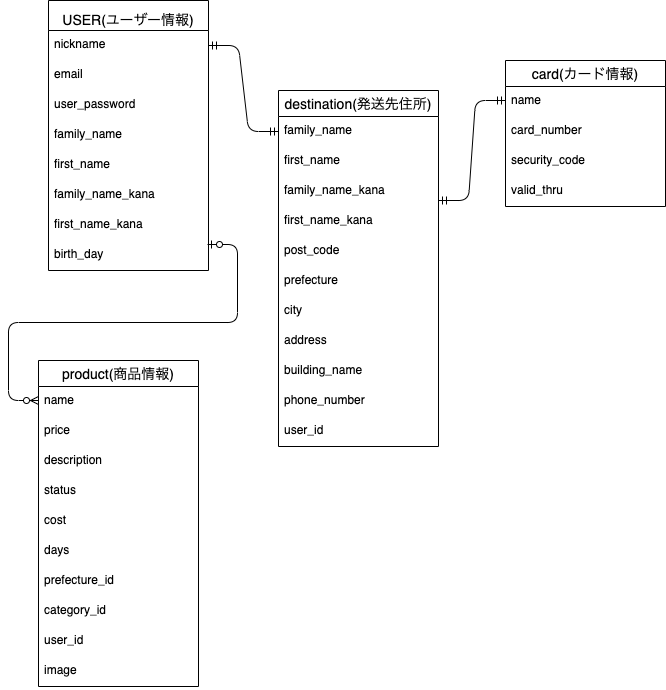
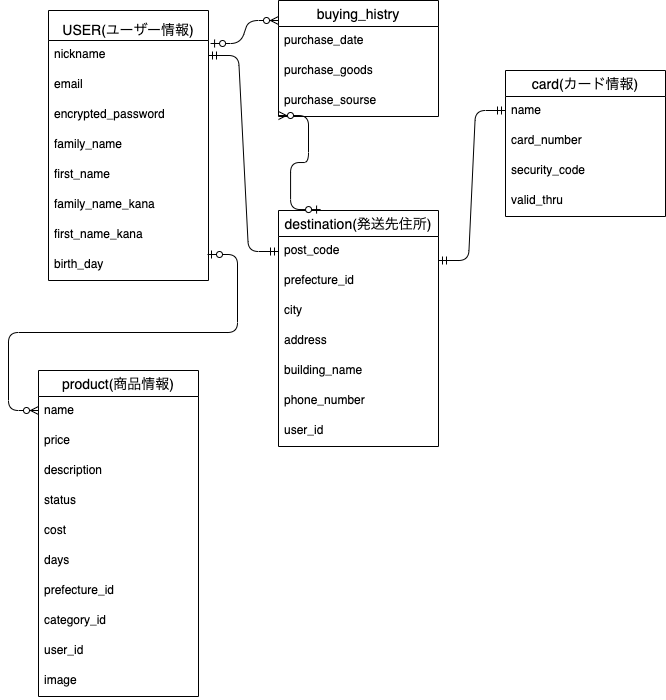
DB設計修正１

diff --git a/README.md b/README.md
@@ -2,20 +2,20 @@
 
 ## users
 
-| Column           | Type   | Options     |
-|------------------|--------|-------------|
-| nickname         | string | null: false |
-| email            | string | null: false |
-| password         | string | null: false |
-| family_name      | string | null: false |
-| first_name       | string | null: false |
-| family_name_kana | string | null: false |
-| first_name_kana  | string | null: false |
-| birth_day        | date   | null: false |
+| Column            | Type   | Options                  |
+|-------------------|--------|--------------------------|
+| nickname          | string | null: false              |
+| email             | string | null: false, unique: true|
+| encrypted_password| string | null: false              |
+| family_name       | string | null: false              |
+| first_name        | string | null: false              |
+| family_name_kana  | string | null: false              |
+| first_name_kana   | string | null: false              |
+| birth_day         | date   | null: false              |
 
 ### Association
 * has_many :product
-* has_many :destination
+* has_many :buying_histories
 
 
 ## product
@@ -23,8 +23,8 @@
 | Column        | Type   | Options     |
 |---------------|--------|-------------|
 | name          | string | null: false |
-| price         | string | null: false |
-| description   | string | null: false |
+| price         | integer | null: false |
+| description   | text   | null: false |
 | status        | string | null: false |
 | shipping_cost | string | null: false |
 | shipping_days | string | null: false |
@@ -35,26 +35,22 @@
 
 ### Association
 * has_many :users
-* has_many :destination
+* has_many :destinations
 
 
 ## destination
 
 | Column           | Type   | Options     |
 |------------------|--------|-------------|
-| family_name      | string | null: false |
-| first_name       | string | null: false |
-| family_name_kana | string | null: false |
-| first_name_kana  | string | null: false |
 | post_code        | string | null: false |
-| prefecture       | string | null: false |
+| prefecture_id    | string | null: false |
 | city             | string | null: false |
 | address          | string | null: false |
-| building_name    | string | null: false |
+| building_name    | string |             |
 | phone_number     | string | null: false |
 
 ### Association
-* has many :product
+* has many :buying_histories
 
 
 ## card
@@ -68,4 +64,18 @@
 
 
 ### Association
-* has_many :destination
+* has_many :destinations
+
+
+## buying_history
+
+| Column          | Type   | Options     |
+|-----------------|--------|-------------|
+| purchase_id     | string | null: false |
+| purchase_date   | string | null: false |
+| purchase_source | string | null: false |
+
+
+### Association
+* has_many :users
+* has_many :destinations
